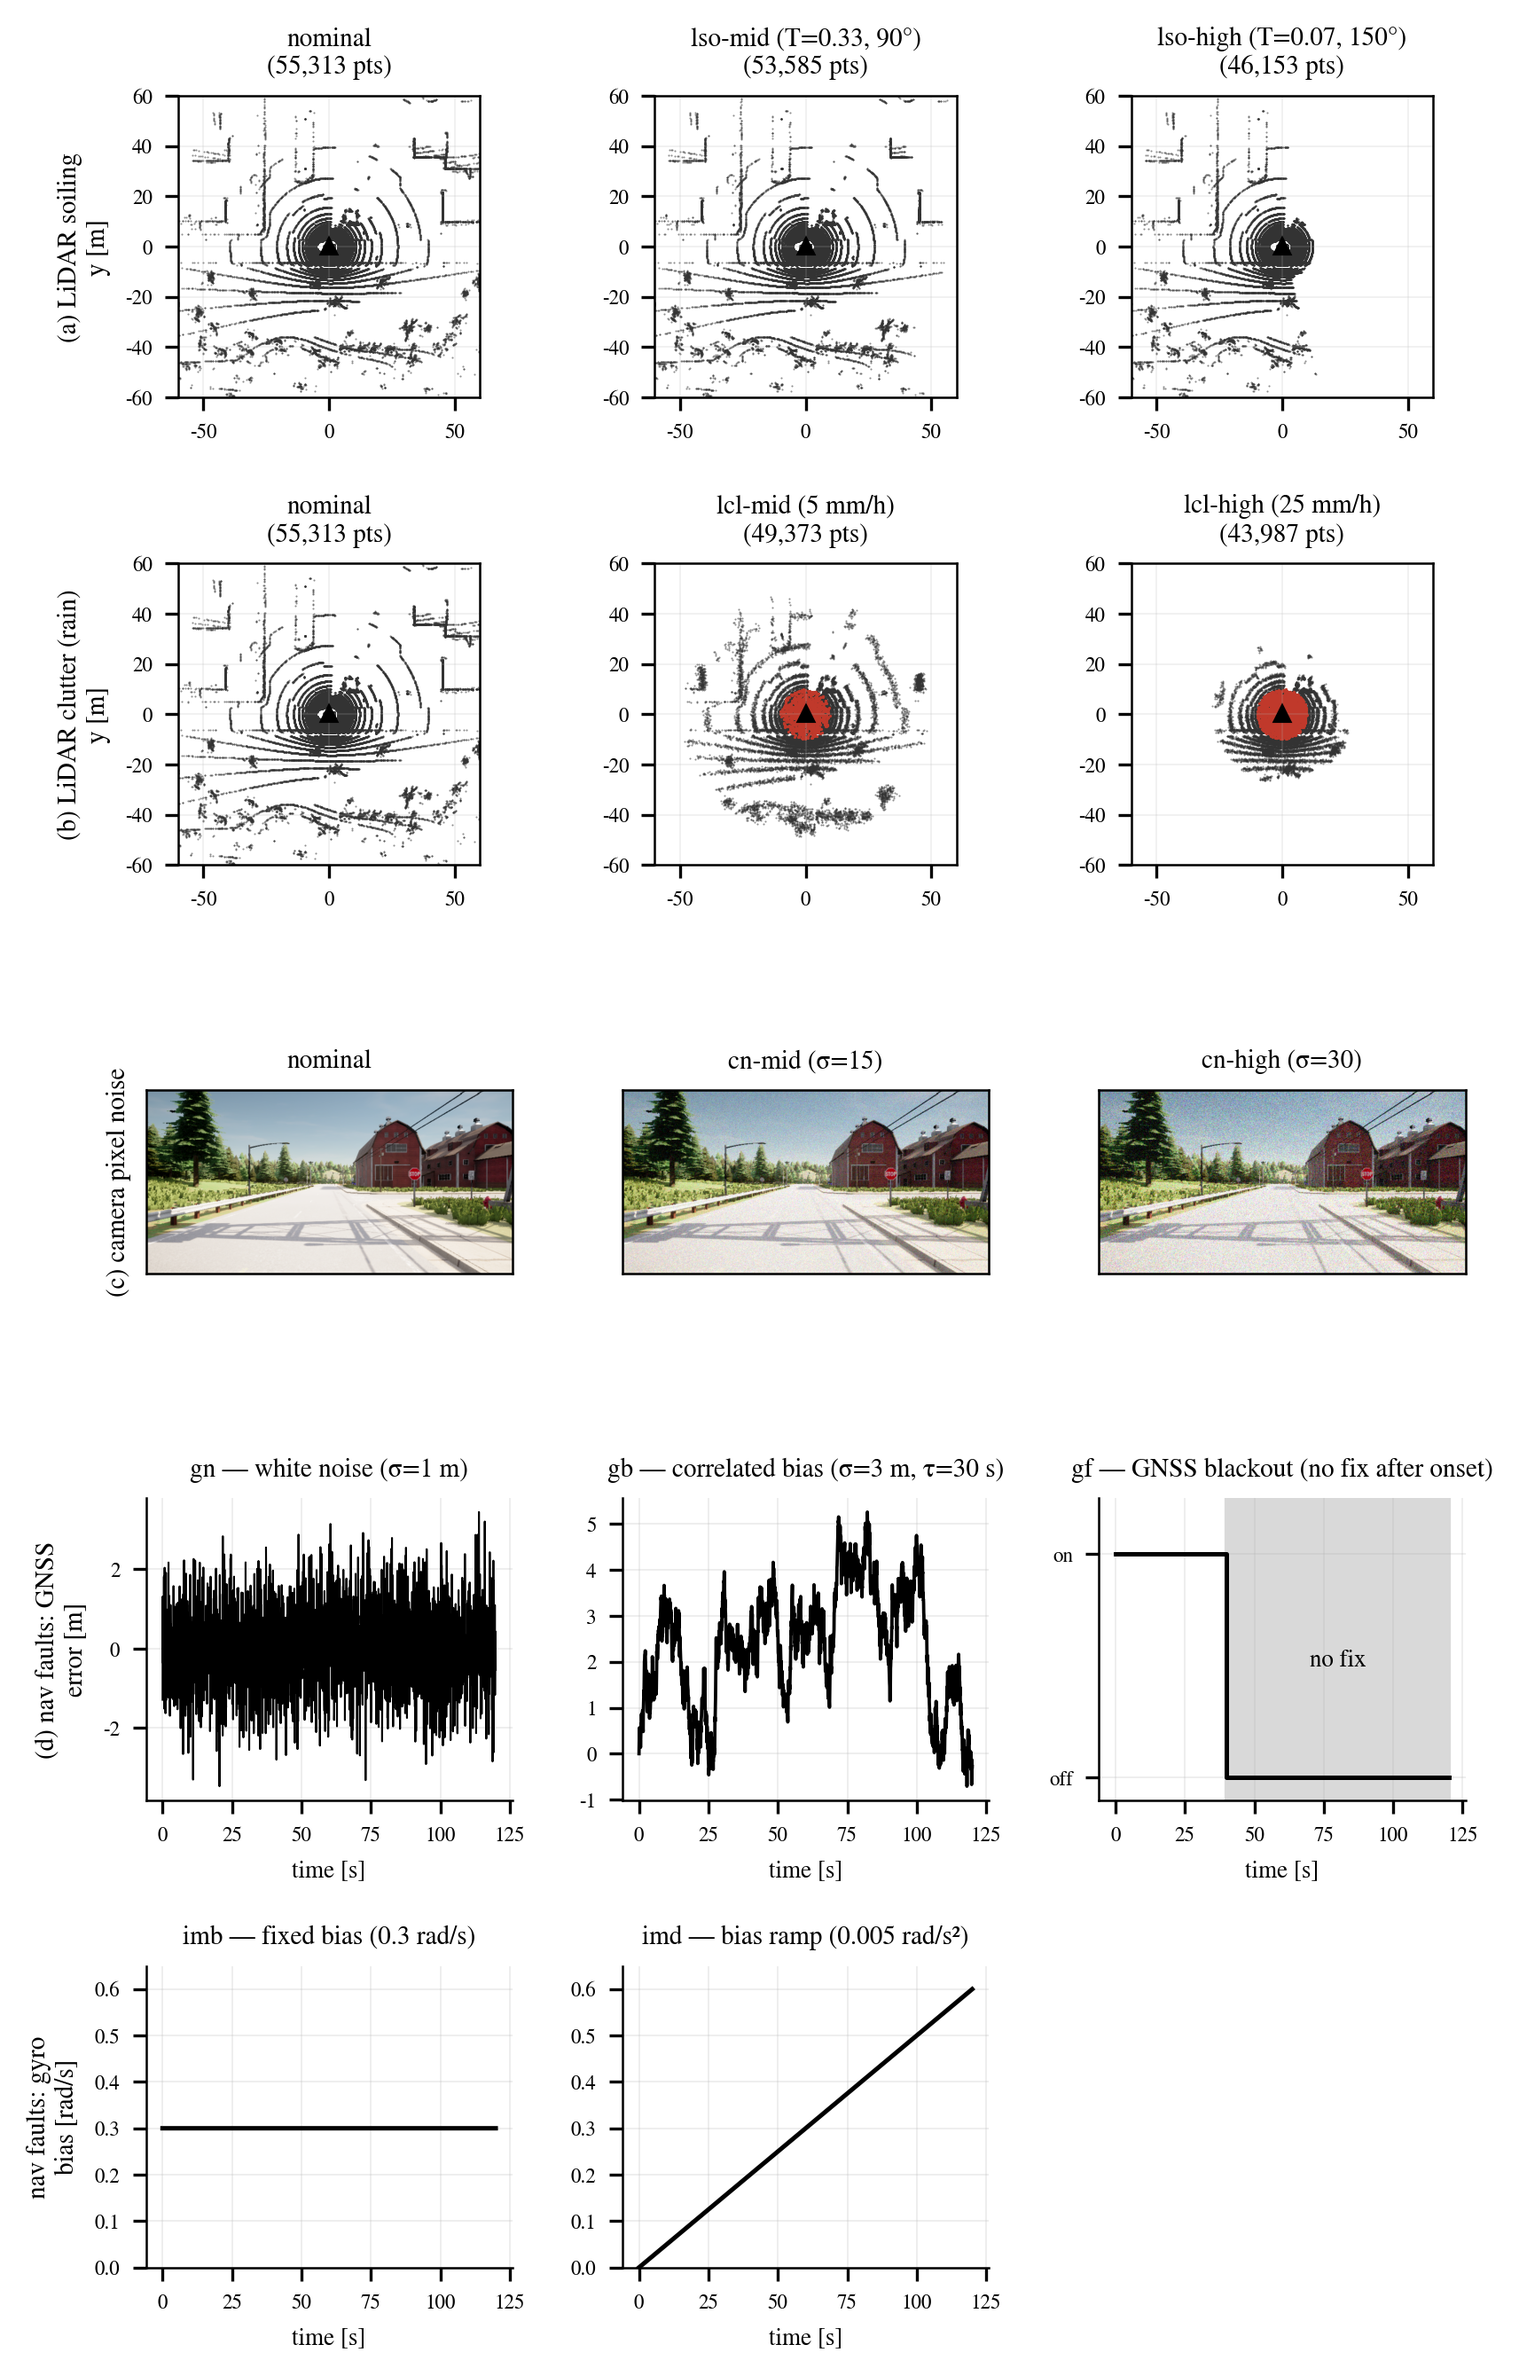
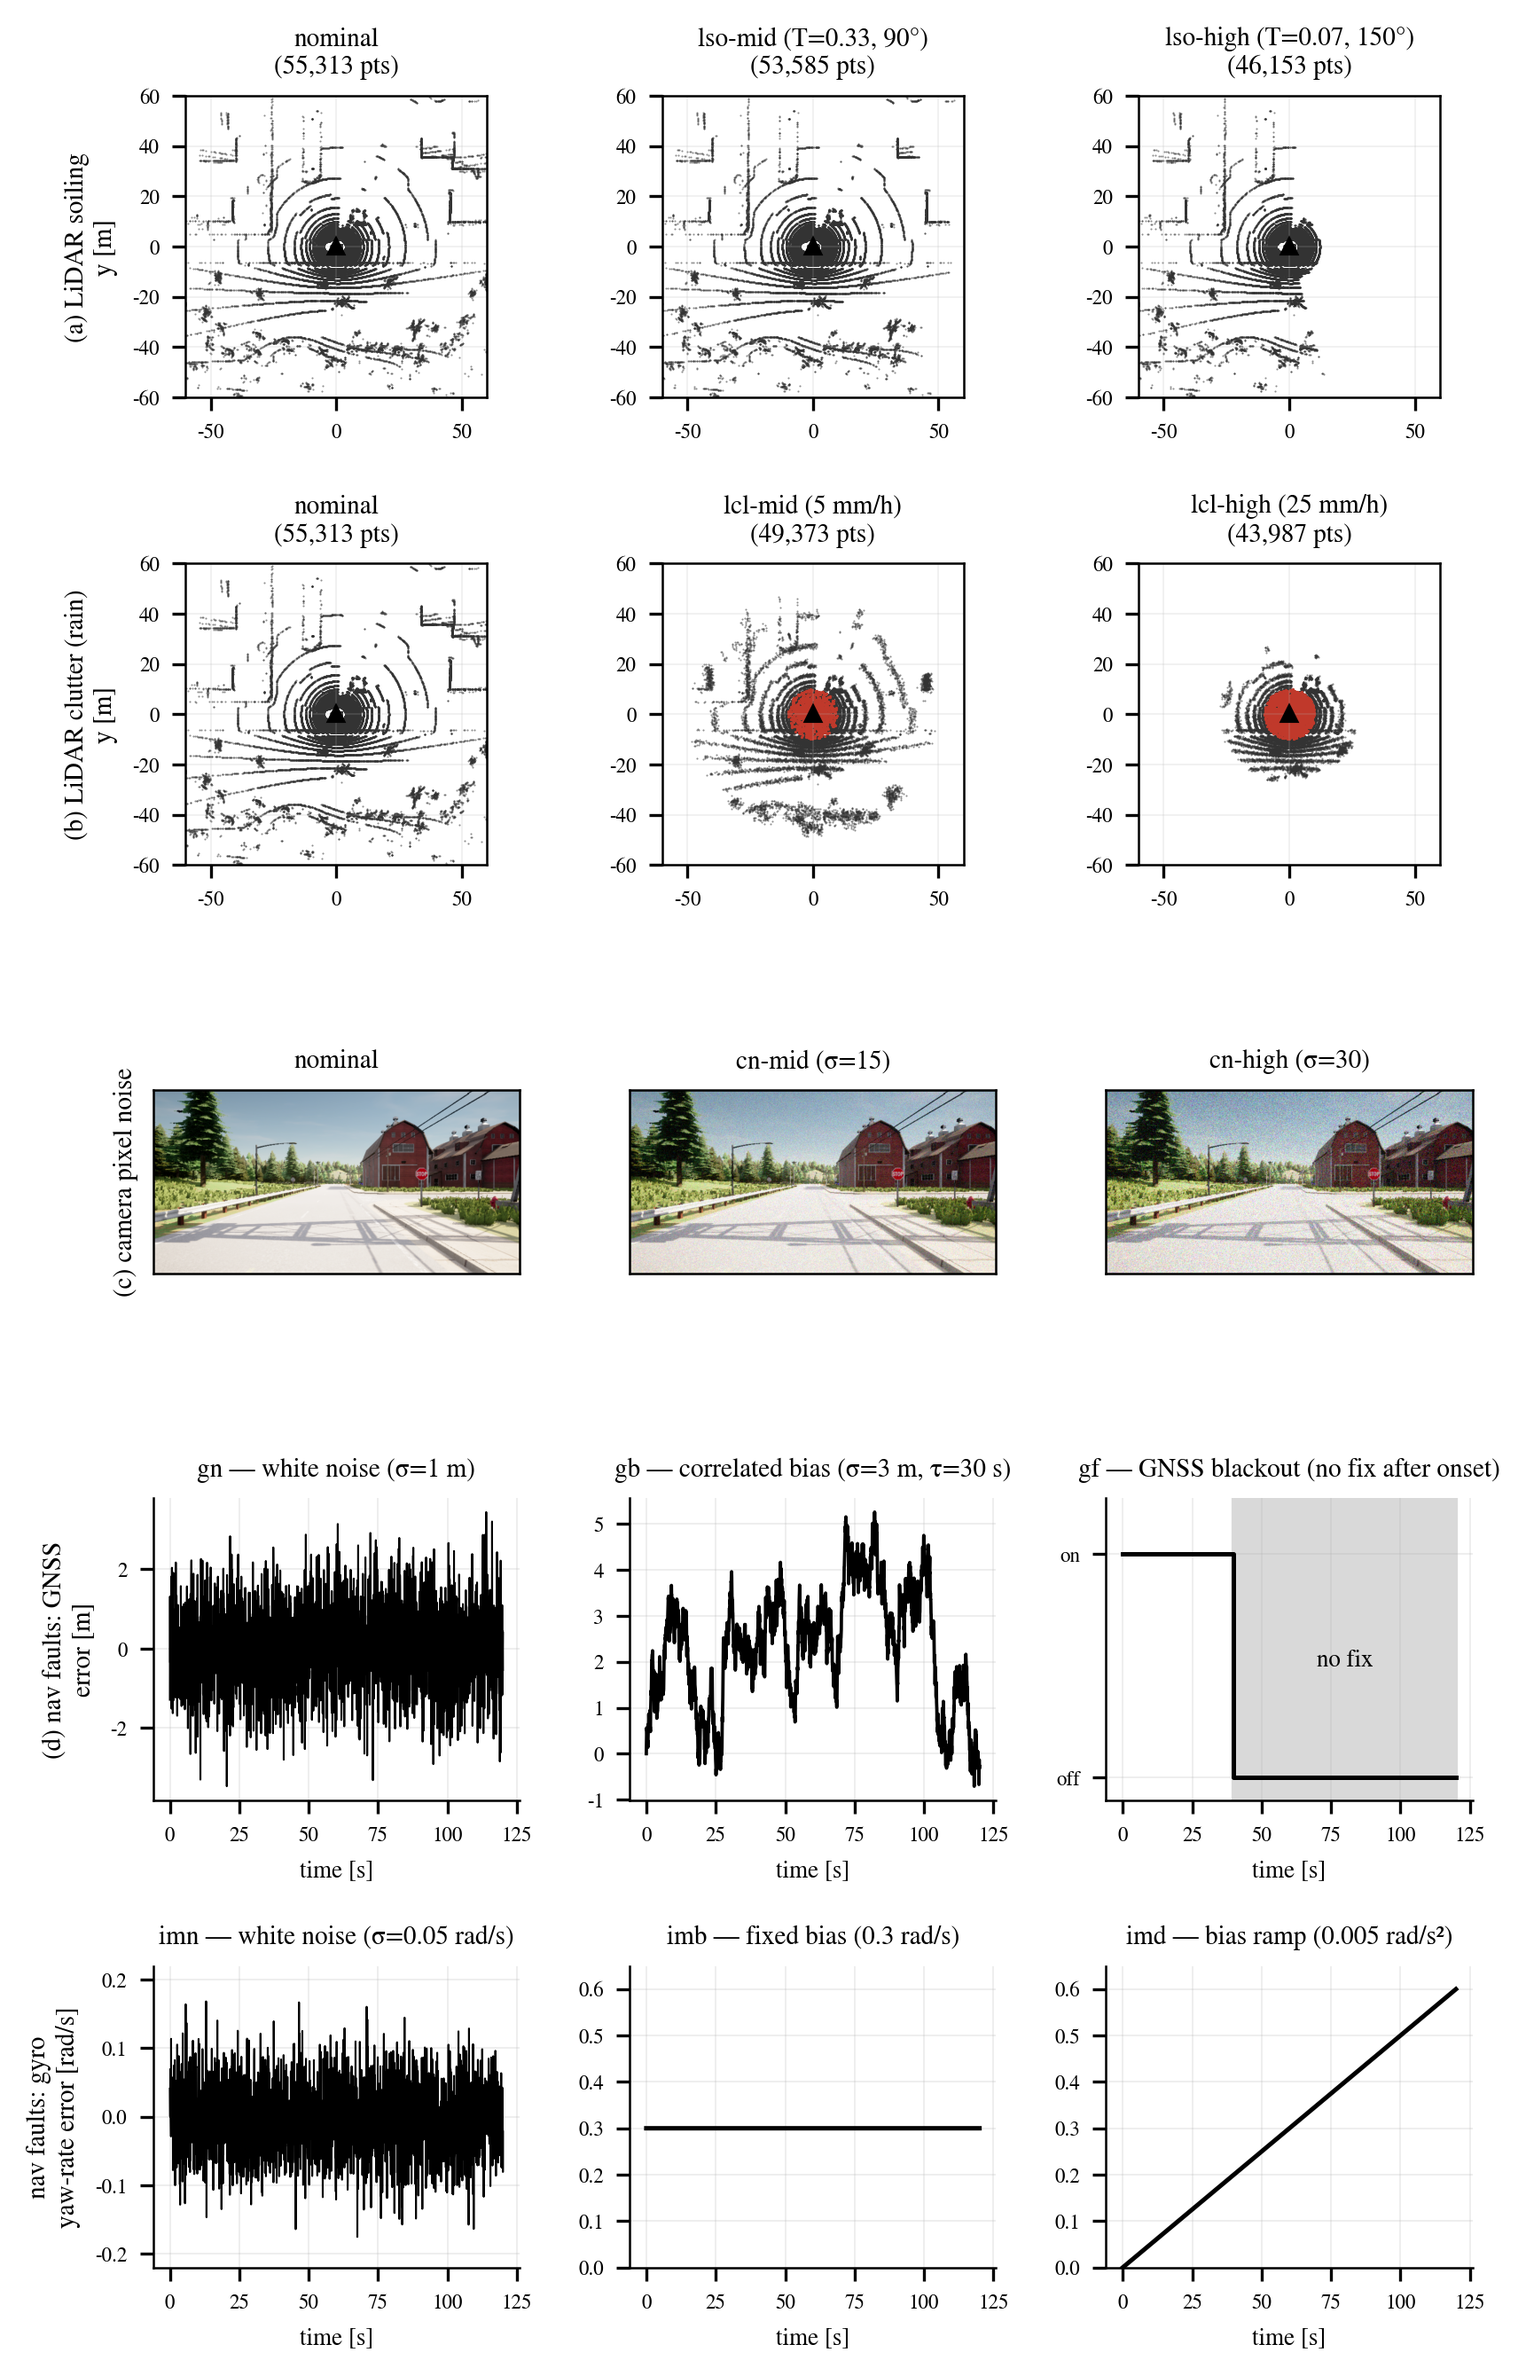
fig_sensor_fault_effects_en: fill gyro row with imn white noise (sigma=0.05 rad/s) — 2x3 nav grid now symmetric (white/bias/loss-or-ramp per family)
Claude-Session: https://claude.ai/code/session_01NtLkxt91PCkwwW6kGTEs5W

diff --git a/doc/figs/src/fig_sensor_fault_effects_en.py b/doc/figs/src/fig_sensor_fault_effects_en.py
@@ -95,16 +95,19 @@ ax.text((T_OFF + 120) / 2, 0.5, 'no fix', ha='center', fontsize=6.5)
 ax.set_ylim(-0.1, 1.25); ax.set_yticks([0, 1]); ax.set_yticklabels(['off', 'on'], fontsize=5.5)
 wave(ax, 'gf — GNSS blackout (no fix after onset)', None)
 
-# row (e-cont.): gyro family — fixed bias / bias ramp
+# row (e-cont.): gyro family — white noise / fixed bias / bias ramp
 ax = fig.add_subplot(gs[4, 0])
+ax.plot(t_, rng.normal(0, 0.05, len(t_)), lw=0.5, color='black')
+ax.set_ylim(-0.22, 0.22)
+wave(ax, 'imn — white noise (σ=0.05 rad/s)', 'nav faults: gyro\nyaw-rate error [rad/s]')
+ax = fig.add_subplot(gs[4, 1])
 ax.plot(t_, np.full_like(t_, 0.3), lw=1.2, color='black')
 ax.set_ylim(0, 0.65)
-wave(ax, 'imb — fixed bias (0.3 rad/s)', 'nav faults: gyro\nbias [rad/s]')
-ax = fig.add_subplot(gs[4, 1])
+wave(ax, 'imb — fixed bias (0.3 rad/s)', None)
+ax = fig.add_subplot(gs[4, 2])
 ax.plot(t_, 0.005 * t_, lw=1.2, color='black')
 ax.set_ylim(0, 0.65)
 wave(ax, 'imd — bias ramp (0.005 rad/s²)', None)
-fig.add_subplot(gs[4, 2]).axis('off')
 
 plt.savefig(OUT); plt.close()
 print('saved')
